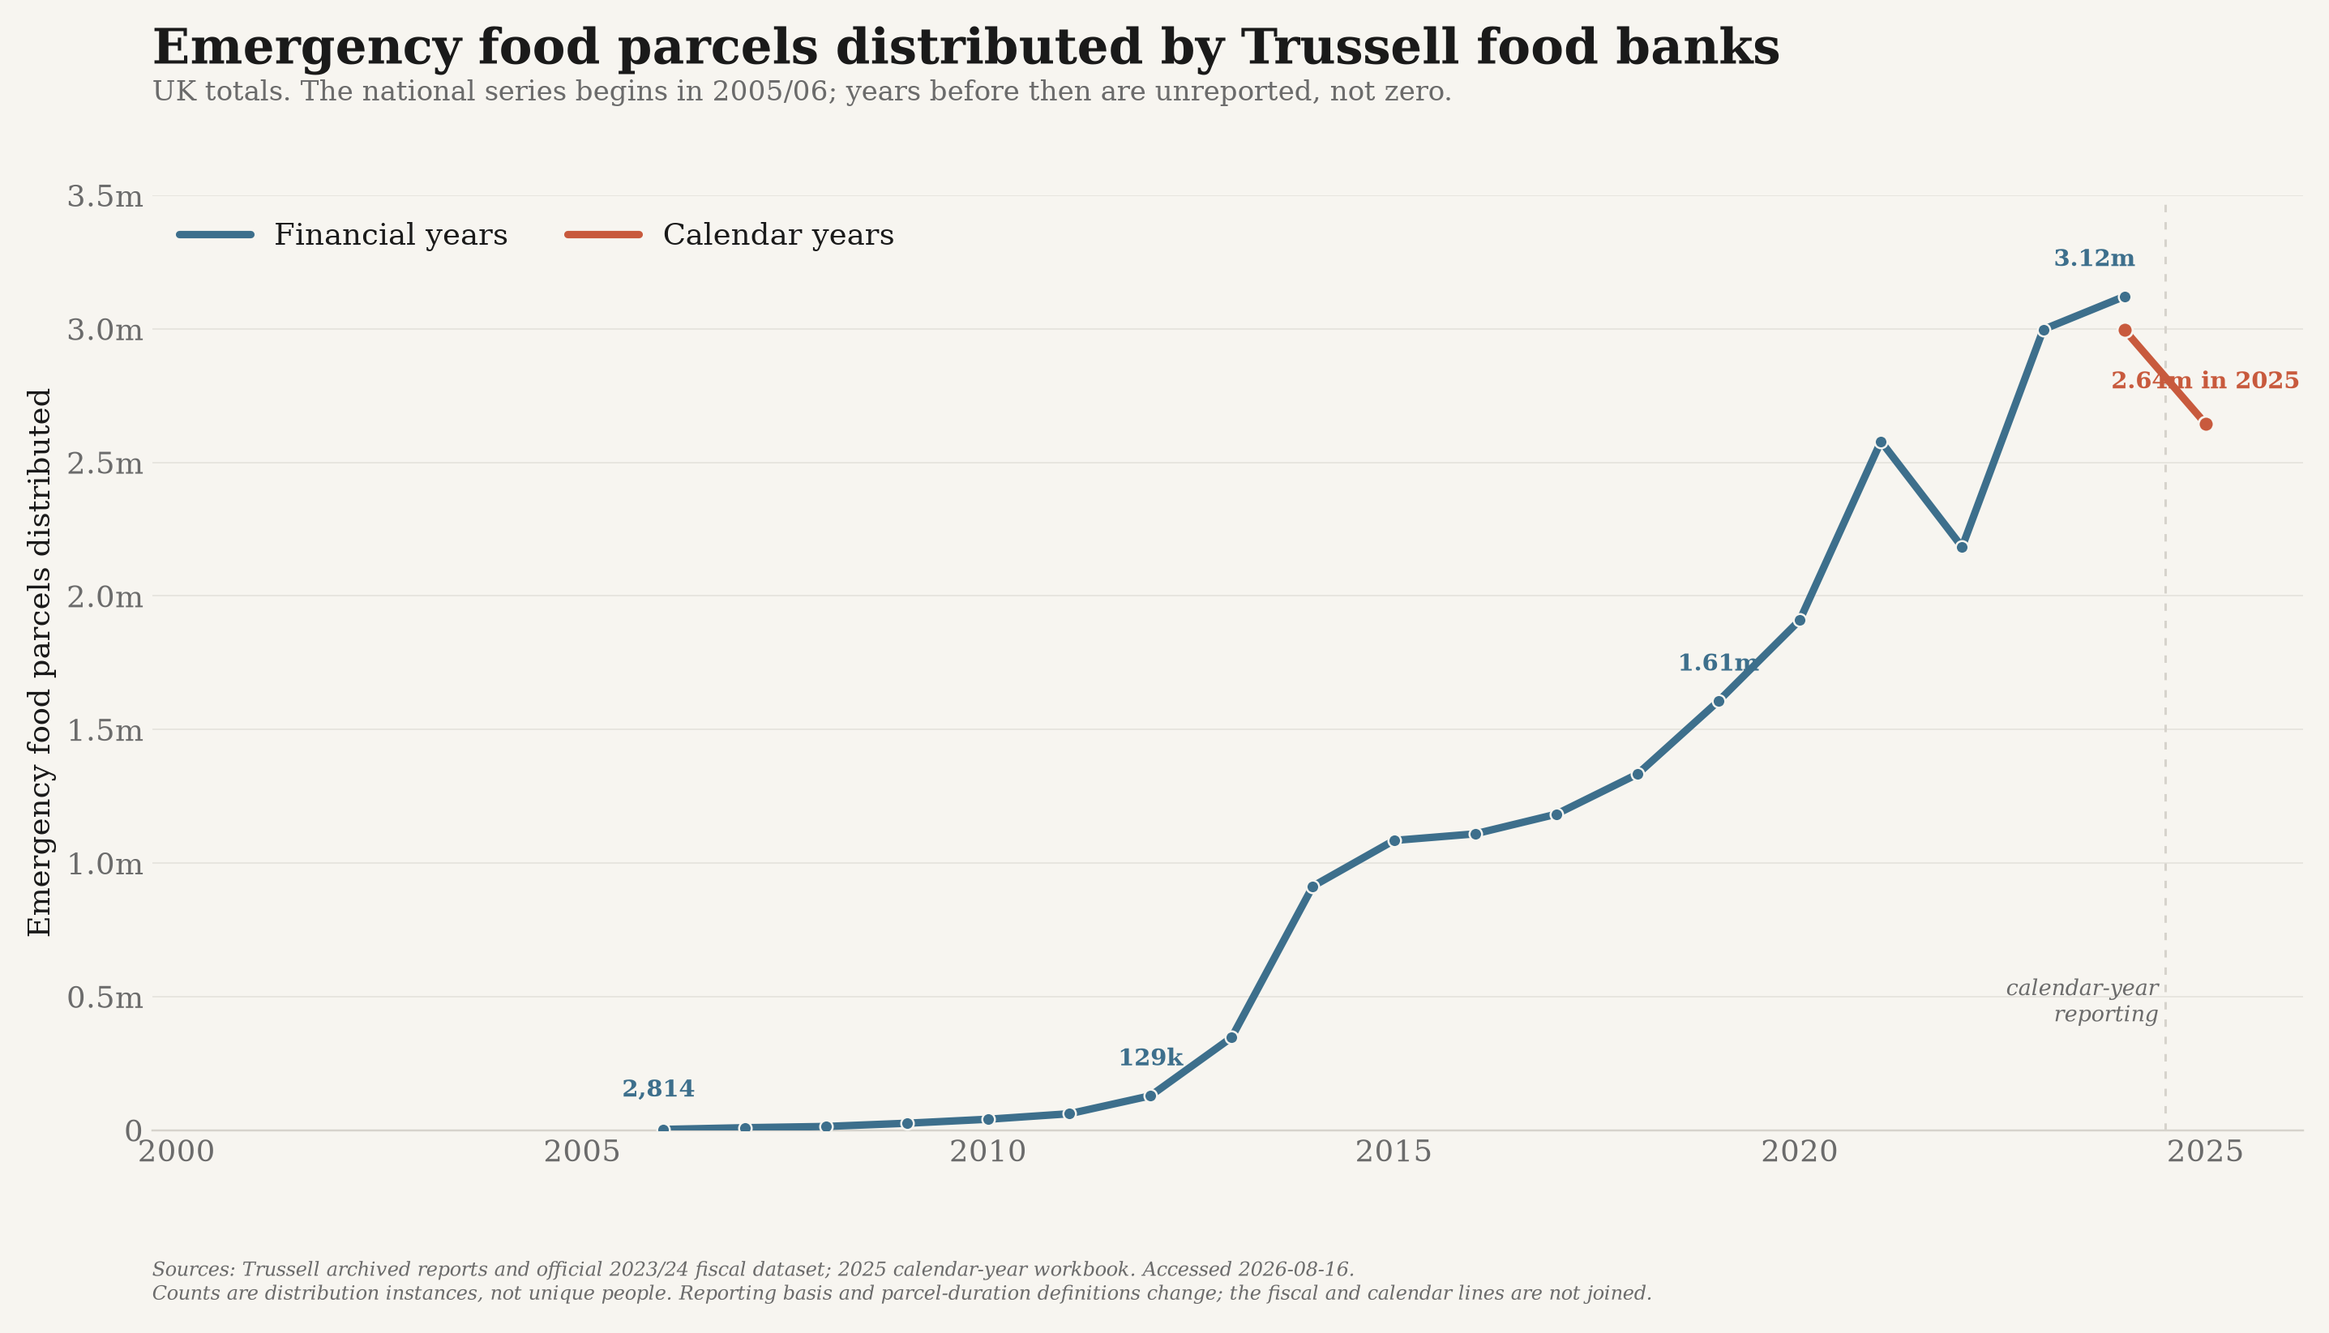
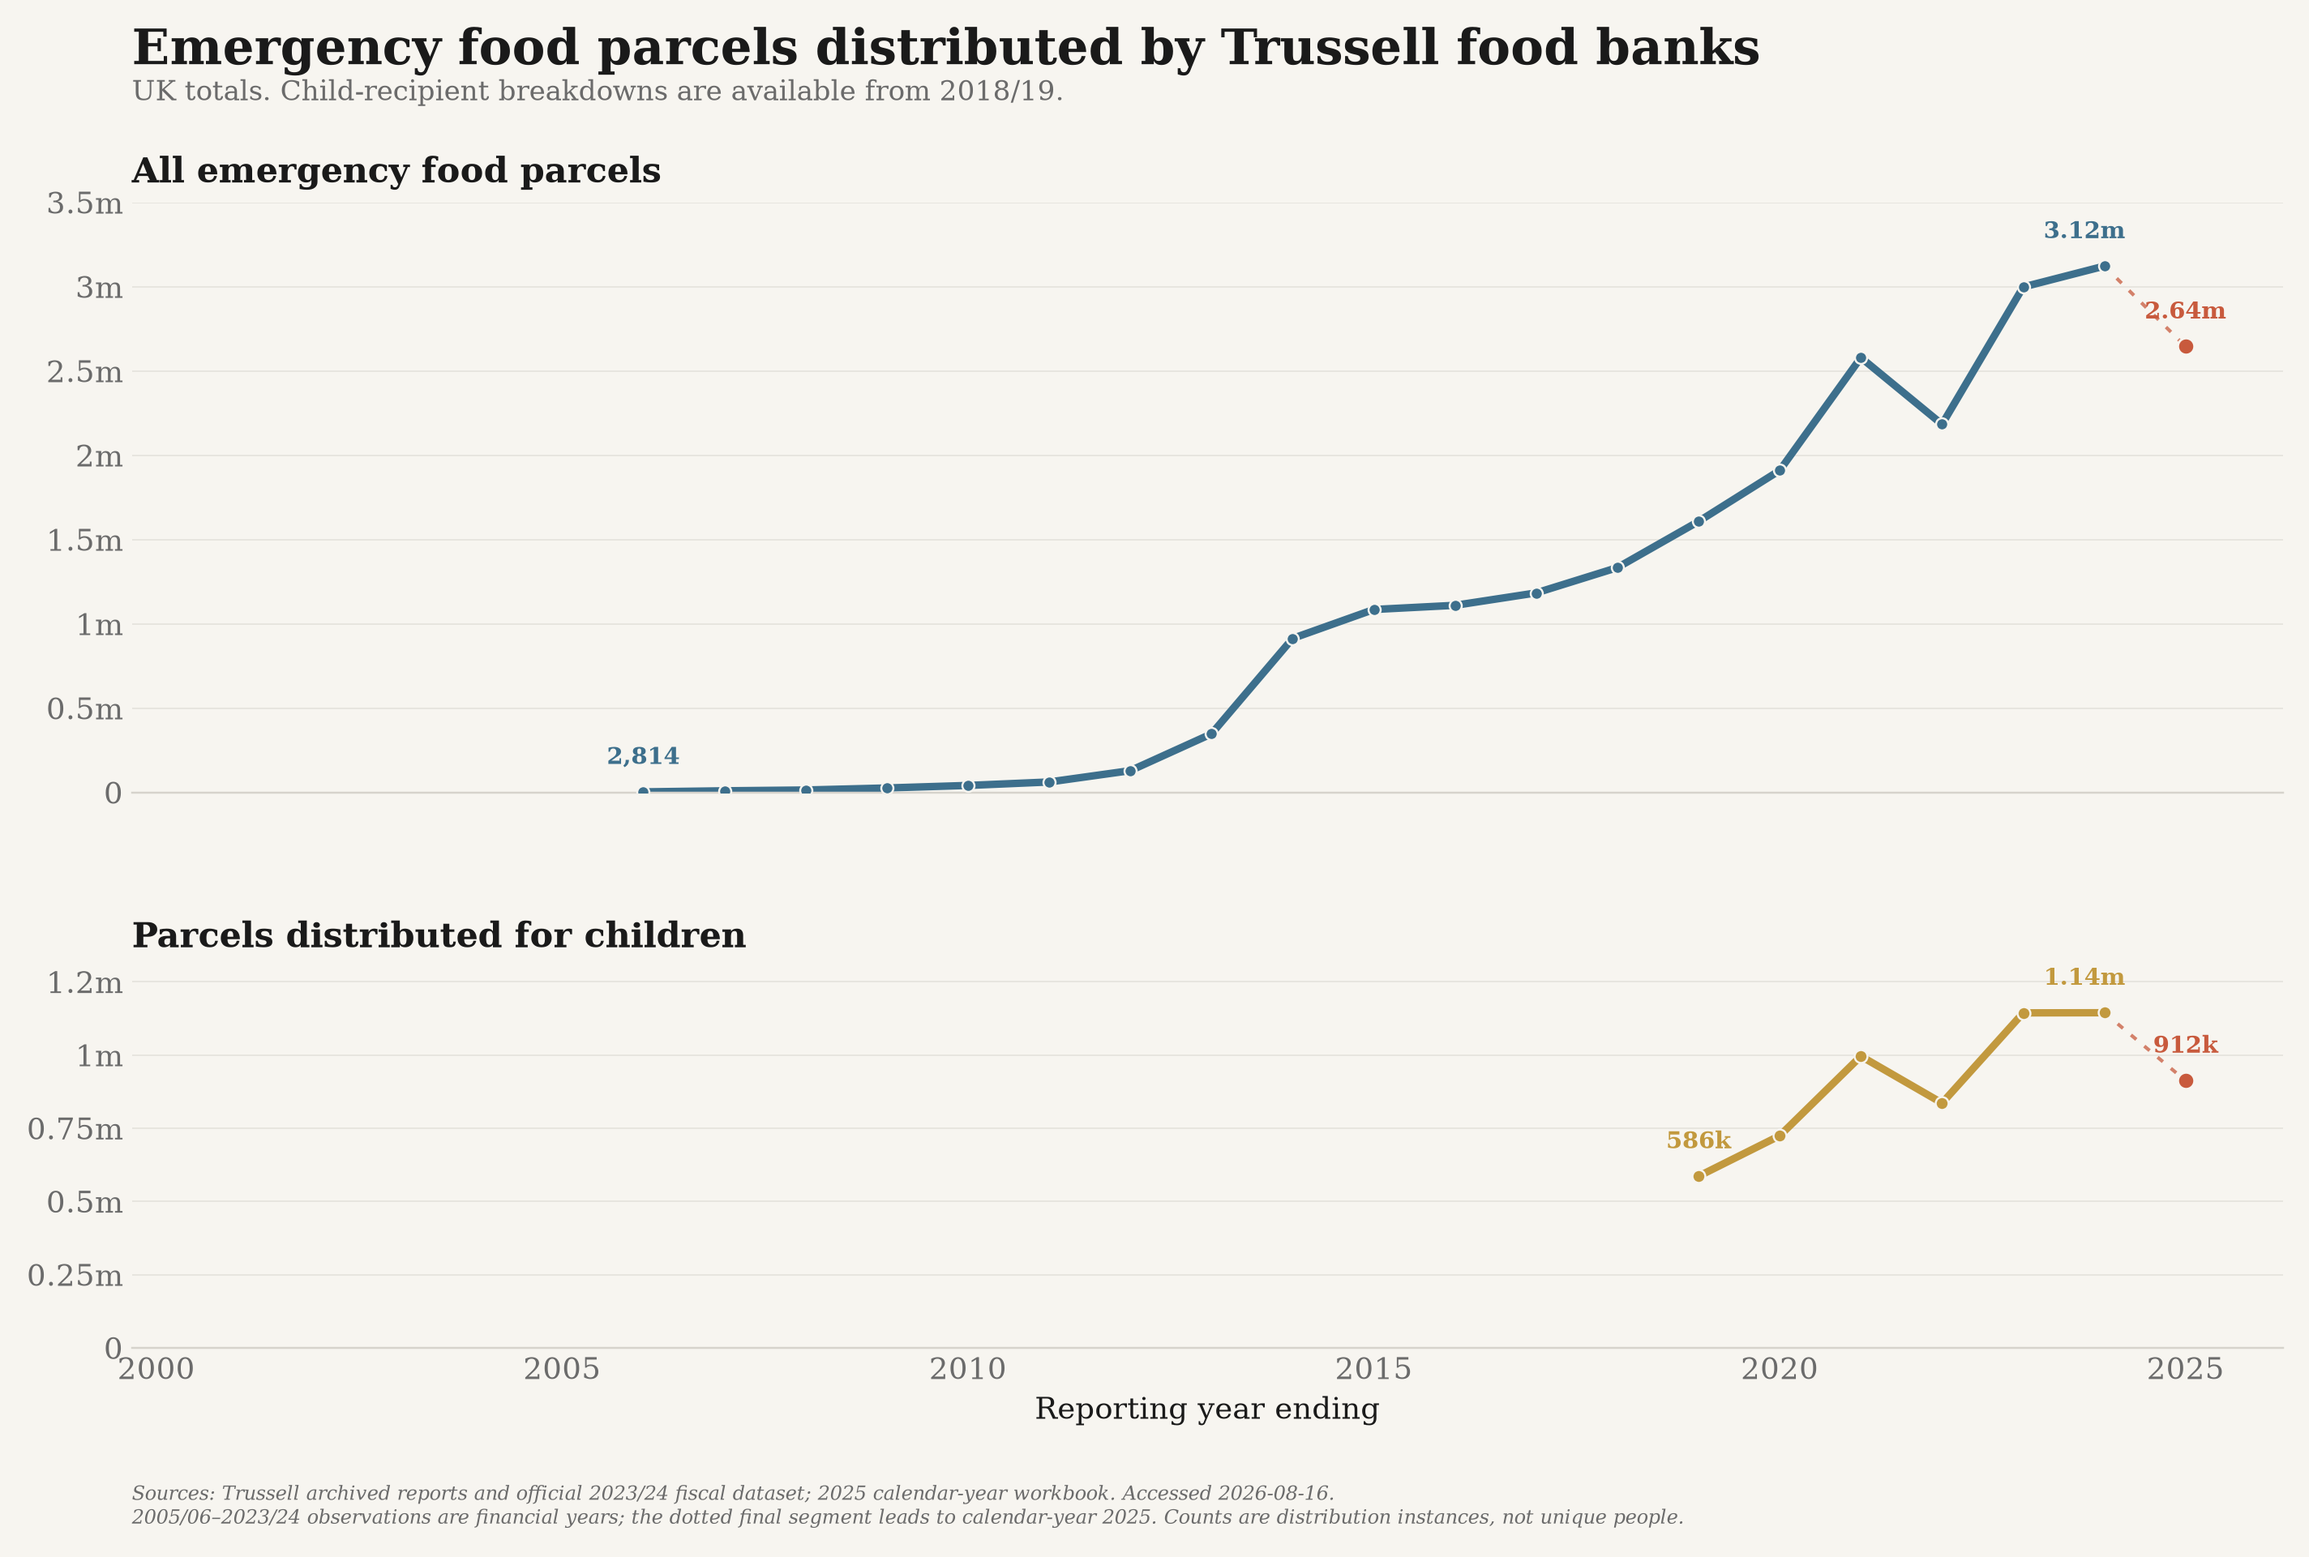
new plots for crime, food bansk, and austerity

diff --git a/foodbank_data/charts.py b/foodbank_data/charts.py
@@ -1,4 +1,4 @@
-"""Clean long-run chart for Trussell emergency food parcel data."""
+"""Clear long-run charts for Trussell emergency food parcel data."""
 
 from __future__ import annotations
 
@@ -8,7 +8,7 @@ import matplotlib.pyplot as plt
 import matplotlib.ticker as mtick
 import pandas as pd
 
-from vizstyle import ACCENT, BG, BLUE, GRID, MUTED, TEXT, house_style, source_note
+from vizstyle import ACCENT, BG, BLUE, GOLD, MUTED, TEXT, house_style, source_note
 
 from .sources import ACCESSED_DATE, OUTPUT_DIR
 
@@ -20,10 +20,10 @@ PRIMARY_OUTPUT = OUTPUT_DIR / "trussell_food_parcels.png"
 def _millions(value: float, _position: int | None = None) -> str:
     if value == 0:
         return "0"
-    return f"{value / 1_000_000:.1f}m"
+    return f"{value / 1_000_000:.2g}m"
 
 
-def _label(ax, x: float, y: float, text: str, *, color: str, dx=0, dy=0) -> None:
+def _label(ax, x: float, y: float, text: str, color: str, *, dx=0, dy=9) -> None:
     ax.annotate(
         text,
         (x, y),
@@ -42,114 +42,141 @@ def foodbank_chart(
     annual: pd.DataFrame,
     out_path: Path = PRIMARY_OUTPUT,
 ) -> Path:
-    """Render one clear long-run chart, keeping reporting-period changes explicit."""
+    """Render aligned total and child-recipient panels on one timeline."""
     fiscal = fiscal.sort_values("end_year")
     annual = annual.sort_values("year")
+    latest = annual.iloc[-1]
 
-    # The fiscal series is the only sourced national series before 2015. Calendar
-    # reporting is shown only for 2024-25 so the latest point is current without
-    # pretending the two reporting periods are identical.
-    calendar_tail = annual[annual["year"] >= 2024].copy()
+    total_history = fiscal[["end_year", "total"]].rename(columns={"end_year": "year"})
+    child_history = fiscal.dropna(subset=["children"])[
+        ["end_year", "children"]
+    ].rename(columns={"end_year": "year"})
 
-    fig, ax = plt.subplots(figsize=(13.4, 7.6))
+    fig, (ax_total, ax_child) = plt.subplots(
+        2,
+        1,
+        figsize=(13.4, 8.8),
+        sharex=True,
+        gridspec_kw={"height_ratios": [1.55, 1], "hspace": 0.36},
+    )
 
-    ax.plot(
-        fiscal["end_year"],
-        fiscal["total"],
+    ax_total.plot(
+        total_history["year"],
+        total_history["total"],
         color=BLUE,
         linewidth=3,
         solid_capstyle="round",
-        label="Financial years",
-        zorder=3,
     )
-    ax.scatter(
-        fiscal["end_year"],
-        fiscal["total"],
-        s=26,
+    ax_total.scatter(
+        total_history["year"],
+        total_history["total"],
+        s=24,
         color=BLUE,
         edgecolor=BG,
         linewidth=0.8,
         zorder=4,
     )
-
-    ax.plot(
-        calendar_tail["year"],
-        calendar_tail["total"],
-        color=ACCENT,
-        linewidth=3,
-        solid_capstyle="round",
-        label="Calendar years",
-        zorder=5,
-    )
-    ax.scatter(
-        calendar_tail["year"],
-        calendar_tail["total"],
-        s=38,
+    ax_total.scatter(
+        [latest["year"]],
+        [latest["total"]],
+        s=44,
         color=ACCENT,
         edgecolor=BG,
         linewidth=0.9,
-        zorder=6,
+        zorder=5,
     )
-
-    # One quiet divider explains the reporting change; there are no event bands or boxes.
-    ax.axvline(2024.5, color=GRID, linewidth=1, linestyle=(0, (3, 4)), zorder=0)
-    ax.text(
-        2024.42,
-        380_000,
-        "calendar-year\nreporting",
-        ha="right",
-        va="bottom",
-        fontsize=8.8,
-        color=MUTED,
-        style="italic",
-    )
-
-    # Sparse labels: first national observation, pre-pandemic level, fiscal peak, latest.
-    points = {
-        "2005/06": ("2,814", BLUE, -2, 11),
-        "2011/12": ("129k", BLUE, 0, 10),
-        "2018/19": ("1.61m", BLUE, 0, 10),
-        "2023/24": ("3.12m", BLUE, -12, 10),
-    }
-    for period, (text, color, dx, dy) in points.items():
-        row = fiscal.loc[fiscal["period_label"] == period].iloc[0]
-        _label(
-            ax,
-            float(row["end_year"]),
-            float(row["total"]),
-            text,
-            color=color,
-            dx=dx,
-            dy=dy,
-        )
-
-    latest = calendar_tail.iloc[-1]
-    _label(
-        ax,
-        float(latest["year"]),
-        float(latest["total"]),
-        "2.64m in 2025",
+    ax_total.plot(
+        [total_history.iloc[-1]["year"], latest["year"]],
+        [total_history.iloc[-1]["total"], latest["total"]],
         color=ACCENT,
-        dx=0,
-        dy=12,
+        linewidth=1.4,
+        linestyle=(0, (2, 3)),
+        alpha=0.75,
     )
 
-    ax.set_xlim(1999.7, 2026.2)
-    ax.set_ylim(0, 3_500_000)
-    ax.set_xticks([2000, 2005, 2010, 2015, 2020, 2025])
-    ax.set_xticklabels(["2000", "2005", "2010", "2015", "2020", "2025"])
-    ax.yaxis.set_major_locator(mtick.MultipleLocator(500_000))
-    ax.yaxis.set_major_formatter(mtick.FuncFormatter(_millions))
-    ax.set_ylabel("Emergency food parcels distributed")
-    ax.grid(axis="y")
-    ax.set_axisbelow(True)
-    ax.spines["left"].set_visible(False)
-    ax.legend(loc="upper left", frameon=False, ncol=2, handlelength=2.4)
+    ax_child.plot(
+        child_history["year"],
+        child_history["children"],
+        color=GOLD,
+        linewidth=3,
+        solid_capstyle="round",
+    )
+    ax_child.scatter(
+        child_history["year"],
+        child_history["children"],
+        s=27,
+        color=GOLD,
+        edgecolor=BG,
+        linewidth=0.8,
+        zorder=4,
+    )
+    ax_child.scatter(
+        [latest["year"]],
+        [latest["children"]],
+        s=44,
+        color=ACCENT,
+        edgecolor=BG,
+        linewidth=0.9,
+        zorder=5,
+    )
+    ax_child.plot(
+        [child_history.iloc[-1]["year"], latest["year"]],
+        [child_history.iloc[-1]["children"], latest["children"]],
+        color=ACCENT,
+        linewidth=1.4,
+        linestyle=(0, (2, 3)),
+        alpha=0.75,
+    )
+
+    # Sparse direct labels only.
+    first = total_history.iloc[0]
+    fiscal_peak = total_history.iloc[-1]
+    _label(ax_total, first["year"], first["total"], "2,814", BLUE)
+    _label(ax_total, fiscal_peak["year"], fiscal_peak["total"], "3.12m", BLUE, dx=-8)
+    _label(ax_total, latest["year"], latest["total"], "2.64m", ACCENT)
+
+    first_child = child_history.iloc[0]
+    last_child = child_history.iloc[-1]
+    _label(ax_child, first_child["year"], first_child["children"], "586k", GOLD)
+    _label(ax_child, last_child["year"], last_child["children"], "1.14m", GOLD, dx=-8)
+    _label(ax_child, latest["year"], latest["children"], "912k", ACCENT)
+
+    for ax in (ax_total, ax_child):
+        ax.set_xlim(1999.7, 2026.2)
+        ax.grid(axis="y")
+        ax.set_axisbelow(True)
+        ax.spines["left"].set_visible(False)
+        ax.yaxis.set_major_formatter(mtick.FuncFormatter(_millions))
+
+    ax_total.set_ylim(0, 3_500_000)
+    ax_total.yaxis.set_major_locator(mtick.MultipleLocator(500_000))
+    ax_total.set_title(
+        "All emergency food parcels",
+        loc="left",
+        fontsize=14,
+        fontweight="bold",
+        color=TEXT,
+        pad=8,
+    )
+
+    ax_child.set_ylim(0, 1_300_000)
+    ax_child.yaxis.set_major_locator(mtick.MultipleLocator(250_000))
+    ax_child.set_title(
+        "Parcels distributed for children",
+        loc="left",
+        fontsize=14,
+        fontweight="bold",
+        color=TEXT,
+        pad=8,
+    )
+    ax_child.set_xticks([2000, 2005, 2010, 2015, 2020, 2025])
+    ax_child.set_xticklabels(["2000", "2005", "2010", "2015", "2020", "2025"])
+    ax_child.set_xlabel("Reporting year ending")
 
     fig.suptitle(
         "Emergency food parcels distributed by Trussell food banks",
         x=0.075,
-        y=0.965,
+        y=0.972,
         ha="left",
         fontsize=20,
         fontweight="bold",
@@ -157,9 +184,8 @@ def foodbank_chart(
     )
     fig.text(
         0.075,
-        0.91,
-        "UK totals. The national series begins in 2005/06; years before then are "
-        "unreported, not zero.",
+        0.925,
+        "UK totals. Child-recipient breakdowns are available from 2018/19.",
         ha="left",
         fontsize=11,
         color=MUTED,
@@ -169,13 +195,13 @@ def foodbank_chart(
         fig,
         "Sources: Trussell archived reports and official 2023/24 fiscal dataset; "
         f"2025 calendar-year workbook. Accessed {ACCESSED_DATE}.\n"
-        "Counts are distribution instances, not unique people. Reporting basis and "
-        "parcel-duration definitions change; the fiscal and calendar lines are not joined.",
+        "2005/06–2023/24 observations are financial years; the dotted final segment "
+        "leads to calendar-year 2025. Counts are distribution instances, not unique people.",
         x=0.075,
-        y=0.025,
+        y=0.018,
     )
 
-    fig.subplots_adjust(left=0.075, right=0.975, top=0.84, bottom=0.15)
+    fig.subplots_adjust(left=0.075, right=0.975, top=0.86, bottom=0.13)
     out_path = Path(out_path)
     out_path.parent.mkdir(parents=True, exist_ok=True)
     fig.savefig(out_path, dpi=220, bbox_inches="tight", pad_inches=0.15, facecolor=BG)

diff --git a/foodbank_data/summary.py b/foodbank_data/summary.py
@@ -89,9 +89,6 @@ the full-year chart.
   as parcels received by households that include children.
 - Trussell says some food banks had not completed data entry by publication, and
   earlier figures can be revised in later releases.
-- The charts' policy/economic labels provide timing context only; they do not claim
-  that any one event caused the observed change.
-
 ## Sources
 
 - Trussell, [Our story]({STORY_PAGE}) (2000 first food bank; network expansion from
@@ -113,8 +110,6 @@ the full-year chart.
   [official 2025 parcel-statistics workbook]({CALENDAR_SOURCE.url}).
 - Trussell, [Mid-year stats]({MID_YEAR_PAGE}) and
   [official April–September 2024 workbook]({MIDYEAR_SOURCE.url}).
-- Welfare Reform and Work Act 2016, explanatory notes on the four-year freeze:
-  <https://www.legislation.gov.uk/ukpga/2016/7/notes/division/3/index.htm>.
 - Accessed **{ACCESSED_DATE}**.
 """
     path = Path(path)

diff --git a/foodbank_data/README.md b/foodbank_data/README.md
@@ -12,8 +12,8 @@ earliest exact nationwide annual count located in Trussell's archive is **2005/0
 2,814 people fed**, where the report describes each recipient as receiving three days'
 emergency food.
 
-The historical chart therefore begins its timeline in 2000, labels 2000–04 as
-**unreported rather than zero**, and starts quantitative bars in 2005/06.
+The primary chart therefore begins its timeline in 2000, treats 2000–04 as
+**unreported rather than zero**, and starts its quantitative line in 2005/06.
 
 There are three deliberately separate statistical series in the data:
 
@@ -60,9 +60,9 @@ reporting. The analysis therefore never joins the six-month and full-year series
 - `data/food_bank_fiscal_year.csv` — sourced fiscal history, 2005/06–2023/24,
   including source-vintage and comparability fields.
 - `outputs/food_banks/trussell_food_parcels.png` — the single primary chart:
-  a linear, long-run fiscal series from 2005/06 to 2023/24 plus a clearly separate
-  calendar-year tail through 2025. The axis begins in 2000, with pre-2005 years
-  explicitly described as unreported rather than zero.
+  aligned panels for all parcels and parcels distributed for children. The long-run
+  fiscal series reaches 2023/24; a short dotted segment carries each measure to the
+  latest calendar-year observation in 2025.
 - `outputs/food_banks/summary.md` — exact headline values, definitions, and citations.
 
 The raw official XLSX/PPTX files are preserved under `data/raw/food_bank_*`. The fetcher
@@ -92,8 +92,6 @@ Accessed **16 August 2026**:
 - Trussell, [official 2025 parcel-statistics XLSX](https://cms.trussell.org.uk/sites/default/files/2026-03/eys_2025_parcel_stats.xlsx).
 - Trussell, [Mid-year stats](https://www.trussell.org.uk/news-and-research/latest-stats/mid-year-stats).
 - Trussell, [official April–September 2024 XLSX](https://trusselltrustprod.prod.acquia-sites.com/sites/default/files/2024-11/MYS%202024%20parcel%20statistics%20%28web%29.xlsx).
-- The chart's 2016 context marker follows the
-  [Welfare Reform and Work Act 2016 explanatory notes](https://www.legislation.gov.uk/ukpga/2016/7/notes/division/3/index.htm).
 
 ## Definitions and caveats
 
@@ -105,4 +103,3 @@ Accessed **16 August 2026**:
   parcels received by a household containing children.
 - Trussell says some food banks had not completed data entry at publication and may
   revise earlier observations.
-- Policy and economic annotations are timing context, not causal claims.

diff --git a/outputs/food_banks/summary.md b/outputs/food_banks/summary.md
@@ -52,9 +52,6 @@ the full-year chart.
   as parcels received by households that include children.
 - Trussell says some food banks had not completed data entry by publication, and
   earlier figures can be revised in later releases.
-- The charts' policy/economic labels provide timing context only; they do not claim
-  that any one event caused the observed change.
-
 ## Sources
 
 - Trussell, [Our story](https://www.trussell.org.uk/our-work/what-we-do/our-story) (2000 first food bank; network expansion from
@@ -76,6 +73,4 @@ the full-year chart.
   [official 2025 parcel-statistics workbook](https://cms.trussell.org.uk/sites/default/files/2026-03/eys_2025_parcel_stats.xlsx).
 - Trussell, [Mid-year stats](https://www.trussell.org.uk/news-and-research/latest-stats/mid-year-stats) and
   [official April–September 2024 workbook](https://trusselltrustprod.prod.acquia-sites.com/sites/default/files/2024-11/MYS%202024%20parcel%20statistics%20%28web%29.xlsx).
-- Welfare Reform and Work Act 2016, explanatory notes on the four-year freeze:
-  <https://www.legislation.gov.uk/ukpga/2016/7/notes/division/3/index.htm>.
 - Accessed **2026-08-16**.
